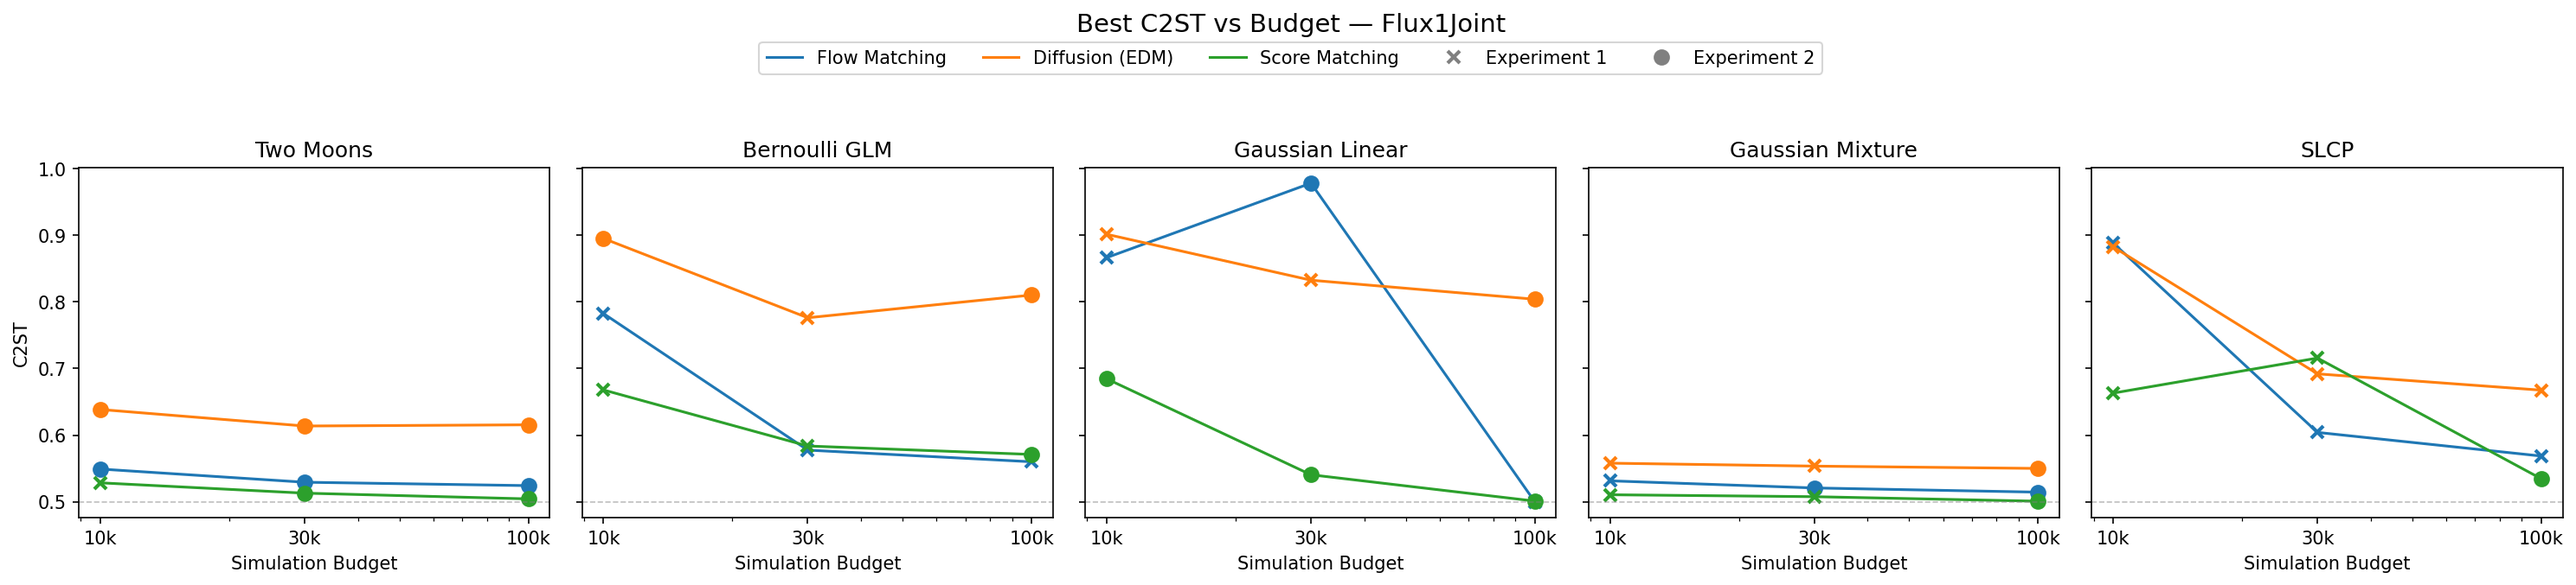
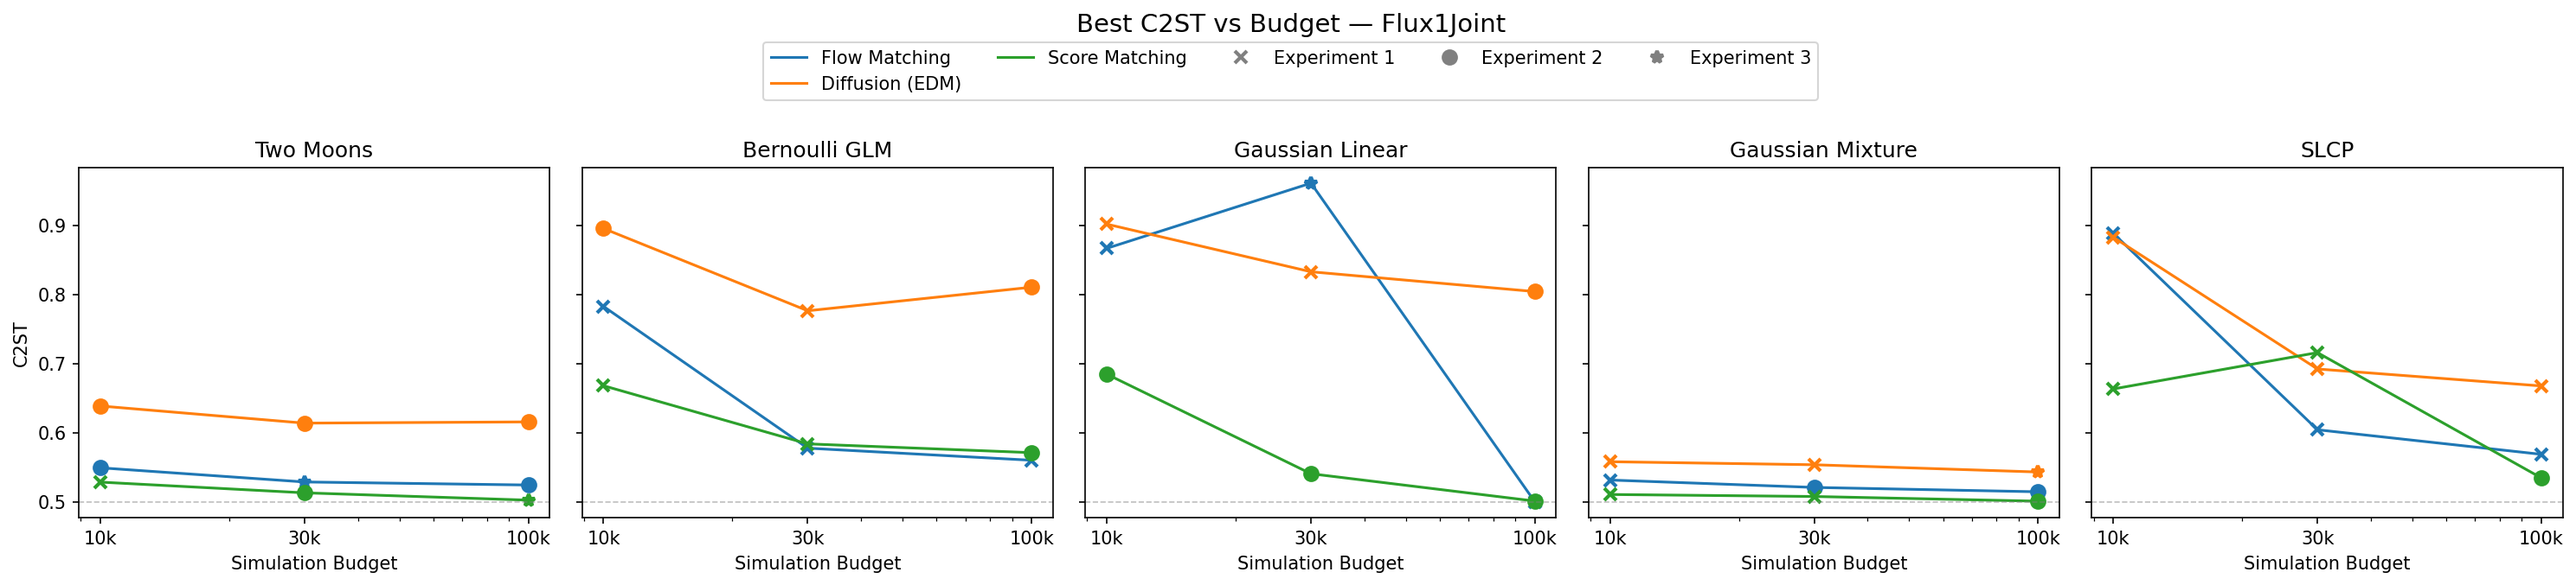
config v3

diff --git a/scripts/plot_model_c2st_best.py b/scripts/plot_model_c2st_best.py
@@ -1,4 +1,4 @@
-#%%
+# %%
 import numpy as np
 import pandas as pd
 import matplotlib.pyplot as plt
@@ -31,7 +31,7 @@ METHODS = [
 
 BUDGETS = [10_000, 30_000, 100_000]
 
-EXPERIMENT_IDS = [1, 2]
+EXPERIMENT_IDS = [1, 2, 3]
 
 STATS_DIR = "examples/sbi-benchmarks/stats"
 
@@ -65,10 +65,10 @@ METHOD_COLORS = {
 }
 
 # Marker for each experiment id
-EXPERIMENT_MARKERS = {1: "x", 2: "o"}
+EXPERIMENT_MARKERS = {1: "x", 2: "o", 3: "*"}
 
 # ---------- load data ----------
-#%%
+# %%
 
 
 def load_all_data():
@@ -88,7 +88,7 @@ def load_all_data():
 data = load_all_data()
 
 # ---------- plotting ----------
-#%%
+# %%
 
 
 def plot_c2st_vs_budget_best(model_methods, model_name, data):
@@ -189,9 +189,9 @@ fig_flux1joint = plot_c2st_vs_budget_best(FLUX1JOINT_METHODS, "Flux1Joint", data
 fig_flux1joint.savefig(
     f"{STATS_DIR}/c2st_vs_budget_flux1joint_best.png", dpi=150, bbox_inches="tight"
 )
-fig_flux1joint.savefig(
-    # f"{STATS_DIR}/c2st_vs_budget_flux1joint_best.pdf", bbox_inches="tight"
-)
+# fig_flux1joint.savefig(
+#     f"{STATS_DIR}/c2st_vs_budget_flux1joint_best.pdf", bbox_inches="tight"
+# )
 
 plt.show()
 print("Done! Plots saved to:", STATS_DIR)

diff --git a/scripts/compile_sbibm_results.py b/scripts/compile_sbibm_results.py
@@ -35,7 +35,7 @@ METHODS = [
 
 BUDGETS = [10_000, 30_000, 100_000]
 
-EXPERIMENT_ID = 1  # matches the experiment_id used during training
+EXPERIMENT_ID = 3  # matches the experiment_id used during training
 
 # regex to extract "Average C2ST accuracy EMA: 0.5771 +- 0.0108"
 PATTERN = re.compile(r"Average C2ST accuracy EMA:\s+([\d.]+)\s*\+-\s*([\d.]+)")
